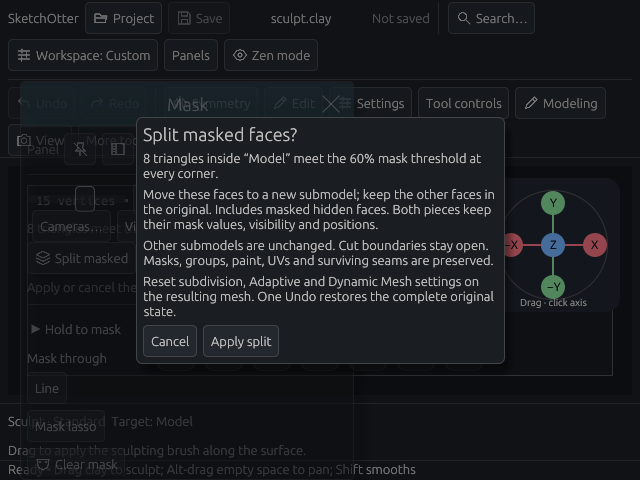
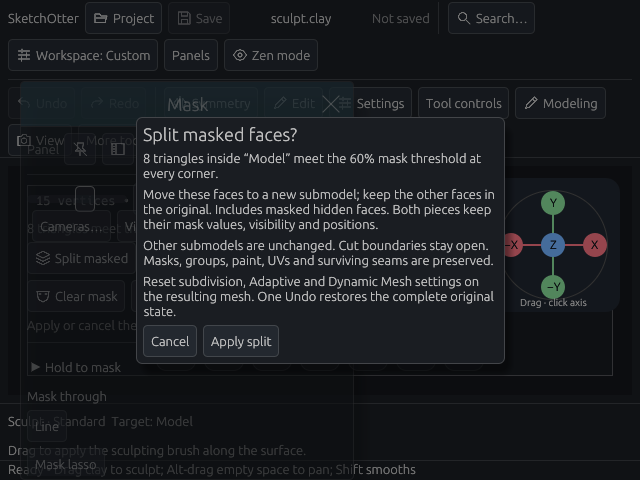
Keep Clear mask and Invert mask reachable in pinned menus

diff --git a/src/ui/menus.rs b/src/ui/menus.rs
@@ -772,6 +772,12 @@ impl UiState {
                         commands,
                     );
                 });
+                ui.add_enabled_ui(!self.mesh_busy && document.primitive().is_none(), |ui| {
+                    ui.horizontal_wrapped(|ui| {
+                        if ui.add(design::button(ui, Glyph::Mask, "Clear mask")).customize(Action::ClearMask).clicked() { commands.push(Command::ClearMask); }
+                        if ui.add(design::button(ui, Glyph::Restore, "Invert mask")).on_hover_text("Swap masked and unmasked areas, preserving soft mask values on every subdivision level.").customize(Action::InvertMask).clicked() { commands.push(Command::InvertMask); }
+                    });
+                });
                 if let Some(reason) = self.action_unavailable(&Action::SplitMasked, document) {
                     ui.weak(reason);
                 }
@@ -787,8 +793,6 @@ impl UiState {
                             commands.push(Command::Action(Action::MaskLasso));
                             if popup { ui.close_kind(egui::UiKind::Menu); }
                         }
-                        if ui.add(design::button(ui, Glyph::Mask, "Clear mask")).customize(Action::ClearMask).clicked() { commands.push(Command::ClearMask); }
-                        if ui.add(design::button(ui, Glyph::Restore, "Invert mask")).on_hover_text("Swap masked and unmasked areas, preserving soft mask values on every subdivision level.").customize(Action::InvertMask).clicked() { commands.push(Command::InvertMask); }
                         ui.horizontal(|ui| {
                             if ui.add(design::button(ui, Glyph::Plus, "Expand mask")).on_hover_text("Spread soft mask values by one mesh edge per click.").customize(Action::ExpandMask).clicked() { commands.push(Command::GrowMask(true)); }
                             if ui.add(design::button(ui, Glyph::Minus, "Contract mask")).on_hover_text("Tighten the mask by one mesh edge per click.").customize(Action::ContractMask).clicked() { commands.push(Command::GrowMask(false)); }

diff --git a/docs/validation/visibility-edits-2026-11-22/README.md b/docs/validation/visibility-edits-2026-11-22/README.md
@@ -65,10 +65,9 @@ Undo/Redo and submodel changes, settings reset, unsupported-input atomicity, and
 existing Delete masked regressions. A real percentage-field edit from 60% to 90%
 verifies the count and Split masked availability update together.
 
-Local validation passed **28 focused checks** plus the ignored Vulkan interaction
+Local validation passed **29 focused checks** plus the ignored Vulkan interaction
 review (six cases: Split hidden, Delete hidden and Split masked at 1000×800 and
-640×480). The CPU run took 12.33 s and the rendered run 28.07 s; these are test durations, not performance
-claims. Vulkan used llvmpipe, Mesa 26.3.1 / LLVM 23.1.5, with one software-rendering
+640×480). Vulkan used llvmpipe, Mesa 26.3.1 / LLVM 23.1.5, with one software-rendering
 thread. The compact and normal confirmation images were visually inspected:
 target/count, consequences and both action buttons fit and remain readable.
 
@@ -79,13 +78,18 @@ viewport controls can still overlap portions of a restored pinned menu; this
 change does not claim to resolve the broader menu-placement system in #50.
 The reviewed confirmations and Split/Delete buttons remain reachable.
 
+Full CI exposed Invert mask falling below the initial viewport of a moved pinned
+Mask menu. Clear mask and Invert mask now share a row directly below Split/Delete,
+ahead of availability explanations and masking tools. The existing pin, move,
+invert, clear and unpin interaction regression passes locally with this ordering.
+
 Final review also covered a deletion with only UV seam marks on the removed
 faces, before unwrapping. Delete uses the same installation path as Split so
 the generic geometry commit cannot restore those deleted-only marks.
 
 The 8 GB laptop had about 1.7 GiB available at the first build. A 102-test staged
 selection hit a 1,500 MiB cgroup cap; it was not retried unchanged. The reduced
-selection (ultimately 29 cases including the optional capture) compiled with
+selection (ultimately 30 cases including the optional capture) compiled with
 one job, debug symbols/incremental compilation disabled, 256 codegen units,
 a 1,400 MiB cap and no cgroup swap. All heavy commands used the shared build
 lock. This used the existing temporary test-staging technique; the supported
